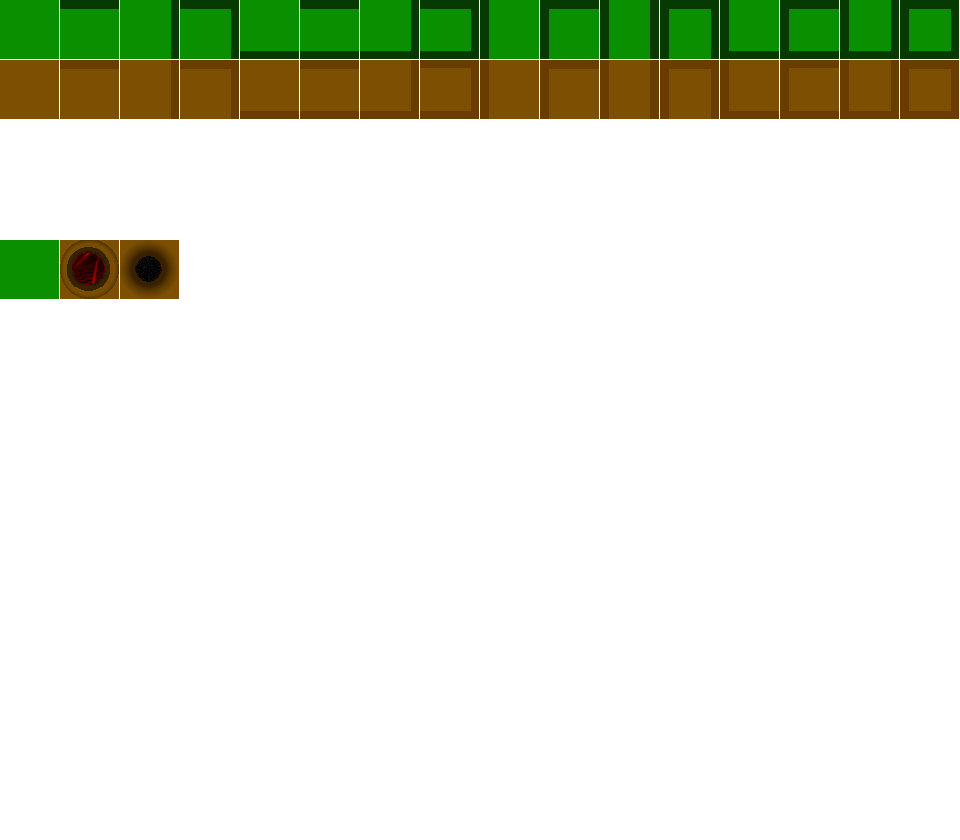
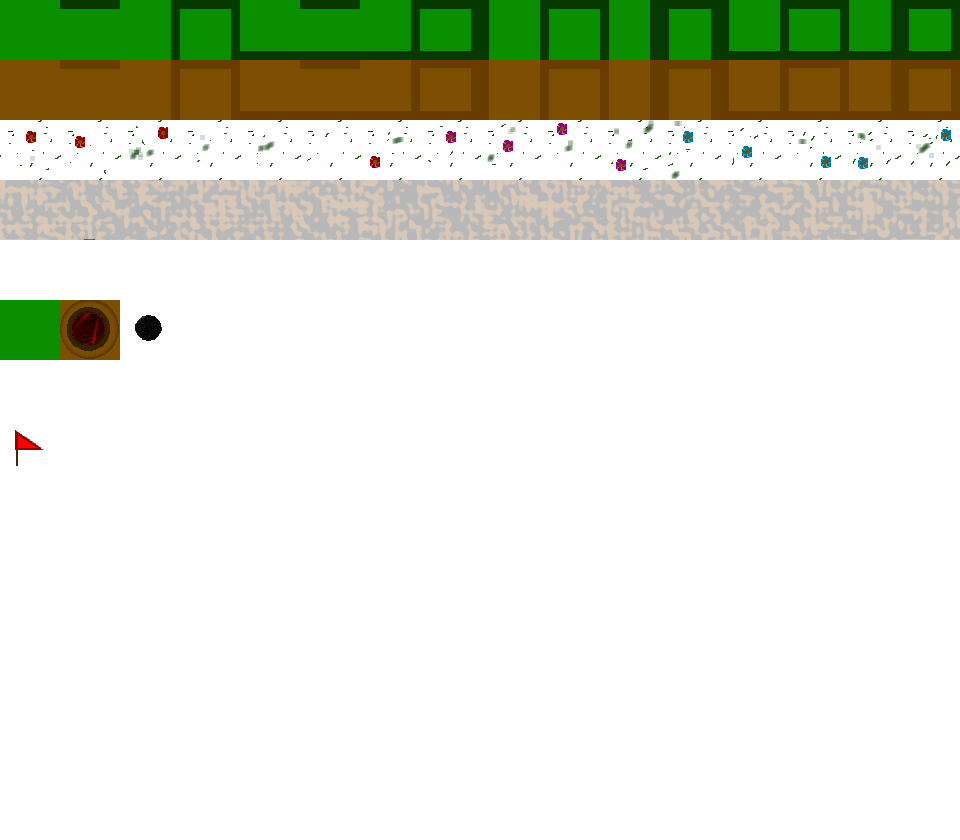
Add flag sprite & update draw method

diff --git a/src/grid.cpp b/src/grid.cpp
@@ -15,12 +15,19 @@ enum Wall {
     LEFT = 1 << 3
 };
 
+enum SpecialQuad {
+	FLAG,
+	EXPLODE,
+	MINE
+};
+
 
 // Texture2D spriteTex;
 Texture2D tileMapTexture;
 Sound kaboom;
 std::unordered_map<int, std::unordered_map<int, Rectangle>> spriteMap;
 std::unordered_map<int, Color> adjacentIndicatorColor;
+std::unordered_map<SpecialQuad, Rectangle> specialSpriteMap;
 
 void load() {
 	adjacentIndicatorColor = {
@@ -42,6 +49,10 @@ void load() {
 			spriteMap.at(i).emplace(j, Rectangle{sts * j, i*sts, sts, sts});
 		}
 	}
+	specialSpriteMap.emplace(FLAG, Rectangle{0, 420, sts, sts});
+	specialSpriteMap.emplace(EXPLODE, Rectangle{60, 300, sts, sts});
+	specialSpriteMap.emplace(MINE, Rectangle{120, 300, sts, sts});
+
 	kaboom = LoadSound("assets/Big_Explosion_Cut_Off.mp3");
 }
 void unload() {
@@ -62,18 +73,18 @@ Cell::Cell(int x, int y) : x(x), y(y) {
 }
 Cell::~Cell() {}
 
+void drawQuad(Rectangle quad, Rectangle at) {
+	DrawTexturePro(tileMapTexture, quad, at, {0, 0}, 0, WHITE);
+}
 void Cell::render(float tileSize) {
 	Rectangle l = {x * tileSize, y * tileSize, tileSize, tileSize};
 	Rectangle quad = spriteMap.at(!hidden).at(spriteVal);
-	if (mine && !hidden) {
-		quad = {120, 240, 60, 60};
-	}
 	if (exploded) quad = quadOverride;
-	DrawTexturePro(tileMapTexture, quad, l, {0, 0}, 0, WHITE);
+	drawQuad(quad, l);
+	if (mine && !hidden && !exploded) drawQuad(specialSpriteMap.at(MINE), l);
+	if (flagged) drawQuad(specialSpriteMap.at(FLAG), l);
+
 	DrawRectangleLinesEx(l, 1.0f, Fade(BLACK, 0.2));
-	if (flagged) {
-		DrawCircle(x * tileSize + tileSize/2, y * tileSize + tileSize/2, 4, RED);
-	};
 	if (hidden) return;
 	if (adjacentMines > 0 && !mine) {
 		const char *n = TextFormat("%i", adjacentMines);
@@ -102,7 +113,7 @@ void Cell::dig() {
 	hidden = false;
 	if (!mine) return;
 	// spriteVal = EXPLODE;
-	quadOverride = {60, 240, 60, 60};
+	quadOverride = specialSpriteMap.at(EXPLODE);
 	exploded = true;
 	PlaySound(kaboom);
 }
@@ -146,29 +157,6 @@ Grid::Grid(int gWidth, int gHeight, float tileSize, int totalMines)  {
 	}
 }
 Grid::~Grid() {}
-
-void Grid::debugDig(Vector2 pos) {
-	if (!hasCellAtPixel(pos)) return;
-	Cell& cell = cellAtPixel(pos);
-	cell.hidden = false;
-	cell.setBorders(*this);
-	for (int x = cell.x - 1; x <= cell.x + 1; x += 2) {
-		if (!isValid(x, cell.y)) continue;
-		getCell(x, cell.y).setBorders(*this);
-	}
-	for (int y = cell.y - 1; y <= cell.y + 1; y += 2) {
-		if (!isValid(cell.x, y)) continue;
-		getCell(cell.x, y).setBorders(*this);
-	}
-}
-void Grid::debugSetAllBorders() {
-	for (int x = 0; x < gWidth; x++) {
-		for (int y = 0; y < gHeight; y++)
-		{
-			getCell(x, y).setBorders(*this);
-		}
-	}
-}
 
 void Grid::setBordersAround(Cell& cell) {
 	for (int x = cell.x -1; x <= cell.x + 1; x++) {
@@ -331,10 +319,6 @@ void Grid::updateExposingMines() {
 		exposeTimer = 0;
 		Cell& cell = getCell(mines.at(exposePos));
 		exposePos++;
-
-		if (cell.flagged) {
-			cell.flagged = false;
-		}
 		cell.hidden = false;
 		setBordersAround(cell);
 	}

diff --git a/include/grid.hpp b/include/grid.hpp
@@ -79,7 +79,7 @@ public:
 
 	Grid(int gWidth, int gHeight, float tileSize, int totalMines);
 	~Grid();
-	void debugDig(Vector2 pos);
+	// void debugDig(Vector2 pos);
 
 	void dig(Cell& cell);
 	void dig(Vector2 position);
@@ -106,6 +106,6 @@ public:
 	bool stateWin();
 	bool stateLose();
 	void setBordersAround(Cell& cell);
-	void debugSetAllBorders();
+	// void debugSetAllBorders();
 
 };

diff --git a/src/main.cpp b/src/main.cpp
@@ -33,13 +33,6 @@ int main() {
 		if (IsMouseButtonPressed(MOUSE_BUTTON_RIGHT)) {
 			field.flag(GetMousePosition());
 		}
-		if (IsMouseButtonPressed(MOUSE_BUTTON_MIDDLE)) {
-			field.rawDig(field.cellAtPixel(GetMousePosition()));
-		}
-		if (IsKeyPressed(KEY_R)) {
-			std::cout << "HERE" << std::endl;
-			field.debugSetAllBorders();
-		}
 
 		//update
 		field.update();
